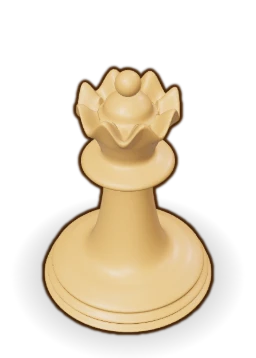
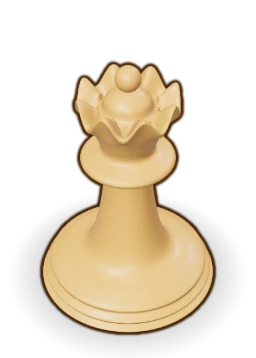
Release 1.63.4: Google sign-in pop-up fixed, Google button tile, Spuzdoku, slimmer pawn collar

Changed region(s): [[0.125, 0.1536, 0.875, 0.8911], [0.375, 0.3994, 0.4062, 0.4302]]

diff --git a/lib/catalog.ts b/lib/catalog.ts
@@ -67,7 +67,7 @@ export interface GameMeta {
   /** Retired (RETIRED_IDS): kept in code, hidden from players and refused by the server. Set by the catalog. */
   retired?: boolean;
   /**
-   * Another board size of the game named here (owner, 14 Nov 2026: Sixer and Nine are one game, Kente, 6 × 6 or
+   * Another board size of the game named here (owner, 14 Nov 2026: Sixer and Nine are one game, Spuzdoku, 6 × 6 or
    * 9 × 9). Playable, with its own levels and stats, but never listed or counted on its own: players reach it
    * from the size picker (components/play/SizePicker).
    */
@@ -169,11 +169,11 @@ const MAIN_GAMES: GameMeta[] = [
     "Suns and moons. Equal per row and column, never 3 in a line. = means same, × means different.",
     { unique: true, minTimeMs: 8000 },
   ),
-  // Kente (owner, 14 Nov 2026): Sixer and Nine are one game with two board sizes, picked before each game. The ids
+  // Spuzdoku (owner, 14 Nov 2026): Sixer and Nine are one game with two board sizes, picked before each game. The ids
   // stay, so levels, stats and saved games carry on; "nine" is the 9 × 9 size and is never listed on its own.
   g(
     "sixer",
-    "Kente",
+    "Spuzdoku",
     "logic",
     "grid-nine",
     "L",
@@ -184,7 +184,7 @@ const MAIN_GAMES: GameMeta[] = [
   ),
   g(
     "nine",
-    "Kente",
+    "Spuzdoku",
     "logic",
     "number-square-nine",
     "M3+",
@@ -859,7 +859,7 @@ export const WORLDS: World[] = ALL_WORLDS.filter((w) => GAMES.some((x) => x.worl
  * The catalogue count: every game that is not retired. Static text that cannot follow the runtime state (the PWA
  * manifest, the offline page) keeps it; anything rendered per request or revalidated counts `playerGames(s).length`.
  */
-/** Games players see (a board-size variant such as Kente 9 × 9 is not counted on its own). */
+/** Games players see (a board-size variant such as Spuzdoku 9 × 9 is not counted on its own). */
 export const GAME_COUNT = GAMES.filter((g) => !g.variantOf).length;
 export const WORLD_COUNT = WORLDS.length;
 

diff --git a/design/design_handoff_spuzl/design/spuzl3d.js b/design/design_handoff_spuzl/design/spuzl3d.js
@@ -63,9 +63,9 @@ function snap(C, size, alignBottom) {
 const base = (br) => [[0, 0], [br, 0], [br, .035], [br + .012, .06], [br - .02, .09], [br - .02, .12], [br - .09, .16]];
 const arc = (cy, r, a0, a1, n = 12) => Array.from({ length: n + 1 }, (_, i) => { const a = a0 + (a1 - a0) * i / n; return [Math.max(0, r * Math.cos(a)), cy + r * Math.sin(a)]; });
 const PROFILES = {
-  // Pawn: a wide base, a short thick neck, a broad collar and a big round head (owner, 14 Nov 2026: pawns read as
-  // bishops). Same height as before, so every other piece keeps its scale.
-  P: [...base(.41), [.25, .20], [.18, .29], [.155, .42], [.27, .465], [.28, .505], [.16, .54], ...arc(.70, .19, -1.0, Math.PI / 2)],
+  // Pawn: a wide base, a short thick neck, a slim collar and a big round head (owner, 14 Nov 2026: pawns read as
+  // bishops; a wide collar made the head look flat). Same height as before, so every other piece keeps its scale.
+  P: [...base(.41), [.25, .20], [.18, .29], [.15, .42], [.215, .46], [.22, .495], [.14, .525], ...arc(.69, .18, -1.05, Math.PI / 2)],
   R: [...base(.42), [.27, .22], [.23, .36], [.22, .62], [.30, .66], [.30, .70], [.27, .72], [.29, .78], [.295, .84], [.27, .855], [.2, .85], [.19, .80], [0, .79]],
   N: [...base(.42), [.26, .22], [.28, .26], [0, .27]],
   B: [...base(.40), [.20, .22], [.14, .40], [.12, .60], [.21, .64], [.21, .68], [.11, .71], [.15, .76], [.18, .84], [.18, .92], [.15, 1.0], [.10, 1.06], [.05, 1.10], [.03, 1.11], ...arc(1.15, .05, -1.17, Math.PI / 2, 6)],

diff --git a/components/auth/GoogleButton.tsx b/components/auth/GoogleButton.tsx
@@ -126,7 +126,7 @@ export function GoogleButton({ next, link = false }: { next: string; link?: bool
           shape: "rectangular",
           text: "continue_with",
           logo_alignment: "center",
-          width: Math.min(400, Math.max(200, Math.round(slot.current.getBoundingClientRect().width))),
+          width: Math.min(400, Math.max(200, Math.round(slot.current.getBoundingClientRect().width) - 16)),
         });
         setGis("ready");
       } catch {
@@ -162,7 +162,10 @@ export function GoogleButton({ next, link = false }: { next: string; link?: bool
         <div
           ref={slot}
           aria-busy={gis === "loading" || busy}
-          className={`flex h-14 w-full items-center justify-center ${busy ? "pointer-events-none opacity-70" : ""}`}
+          // Google's button lives in its own frame: `color-scheme: light` stops the browser painting that frame white on
+          // a dark page, and the 56 px tile around it matches the buttons beside it (Google caps its own at 44 px).
+          className={`flex h-14 w-full items-center justify-center overflow-hidden rounded-[16px] border ${busy ? "pointer-events-none opacity-70" : ""}`}
+          style={{ colorScheme: "light", background: "var(--google-bg)", borderColor: "var(--google-line)" }}
         />
       )}
       {gis === "off" && (

diff --git a/lib/catalog.test.ts b/lib/catalog.test.ts
@@ -121,7 +121,7 @@ describe("Graduate: the twelve lab games are live (11 Nov 2026)", () => {
 });
 
 describe("catalog: retired games", () => {
-  it("keeps the owner-picked and graduated games live, less the owner's cuts of 14 Nov 2026: 32 (Kente's 9 × 9 is not counted on its own)", () => {
+  it("keeps the owner-picked and graduated games live, less the owner's cuts of 14 Nov 2026: 32 (Spuzdoku's 9 × 9 is not counted on its own)", () => {
     expect(GAMES.map((g) => g.id).sort()).toEqual([...LIVE].sort());
     expect(GAME_COUNT).toBe(32);
     expect(GAMES.every((g) => !g.retired && !g.lab)).toBe(true);
@@ -192,7 +192,7 @@ describe("catalog: four groups", () => {
 
   it("puts every live game in exactly one group", () => {
     const seen = WORLDS.flatMap((w) => gamesInWorld(w.id).map((g) => g.id));
-    expect(seen).toHaveLength(GAME_COUNT + 1); // gamesInWorld keeps Kente's 9 × 9 (admin and static paths)
+    expect(seen).toHaveLength(GAME_COUNT + 1); // gamesInWorld keeps Spuzdoku's 9 × 9 (admin and static paths)
     expect(new Set(seen).size).toBe(GAME_COUNT + 1);
     expect([...seen].sort()).toEqual(GAMES.map((g) => g.id).sort());
     for (const g of GAMES) expect(isLiveWorld(g.world), g.id).toBe(true);

diff --git a/tests/e2e/spuzdoku-size.spec.ts b/tests/e2e/spuzdoku-size.spec.ts
@@ -1,0 +1,20 @@
+import { expect, test } from "@playwright/test";
+import { onboardGuest } from "./harness";
+
+/** Spuzdoku (owner, 14 Nov 2026): Sixer and Nine are one game; free play asks for the board size first. */
+test("Spuzdoku asks 6 × 6 or 9 × 9, then plays that size", async ({ page }) => {
+  await onboardGuest(page);
+  await page.goto("/play/sixer?mode=free");
+  await expect(page.getByRole("heading", { name: "Spuzdoku: pick a board" })).toBeVisible({ timeout: 20_000 });
+  await page.screenshot({ path: `${process.env.SHOTS ?? "test-results"}/kente-picker.png` });
+  await page.getByRole("button", { name: /9\s×\s9/ }).click();
+  await page.waitForURL(/\/play\/nine\?.*size=1/);
+  await expect(page.locator("[data-shell]")).toBeVisible({ timeout: 30_000 });
+  await expect(page.getByRole("heading", { name: "Spuzdoku", level: 1 })).toBeVisible();
+});
+
+test("the Library lists Spuzdoku once", async ({ page }) => {
+  await onboardGuest(page);
+  await page.goto("/library");
+  await expect(page.getByRole("link", { name: /^Spuzdoku/ })).toHaveCount(1);
+});

diff --git a/components/play/PlayScreen.tsx b/components/play/PlayScreen.tsx
@@ -220,7 +220,7 @@ export function PlayScreen({
     initialMode === "five" ? fiveSlot?.state === "in_progress" : today.data?.games.find((g) => g.id === meta.id)?.state === "in_progress";
   // First try of a game: a short guided practice round before the real one (skippable).
   const [guided, setGuided] = useState(false);
-  // Kente (owner, 14 Nov 2026): a game with two board sizes asks which one first, unless the address already says
+  // Spuzdoku (owner, 14 Nov 2026): a game with two board sizes asks which one first, unless the address already says
   // (?size=1, set by the picker) or the game came from somewhere that fixed it (a Daily, Daily Five, a past Daily).
   const [askSize, setAskSize] = useState(() => !!SIZES[meta.id] && (initialMode === "free" || initialMode === "level") && !sized);
   // New-device speed (owner, 12 Nov): a game this browser hasn't learned starts loading its practice board now,

diff --git a/lib/copy/seo.ts b/lib/copy/seo.ts
@@ -199,7 +199,7 @@ export const siteFaq = (games: number = GAME_COUNT, worlds: number = WORLD_COUNT
 export const FEATURES: readonly string[] = [
   "Free play: every game any time, with fresh puzzles and levels that get harder.",
   "Arcade: Gotcha, a trap platformer where every room tricks you once; Dash, an endless runner where you jump and duck; plus Echo, Flinch and Twins.",
-  "Kente: number grids at 6 by 6 or 9 by 9, picked before each game.",
+  "Spuzdoku: number grids at 6 by 6 or 9 by 9, picked before each game.",
   "Daily Five: five quick games a day, the same for everyone, with a shareable score grid.",
   "Streaks with Streak Freezes, quests, badges and levels.",
   "Duel: a live best-of-three race against a friend or a matched player.",

diff --git a/next.config.ts b/next.config.ts
@@ -6,7 +6,9 @@ const securityHeaders = [
   { key: "Referrer-Policy", value: "strict-origin-when-cross-origin" },
   { key: "Permissions-Policy", value: "camera=(), microphone=(), geolocation=(), interest-cohort=()" },
   { key: "Strict-Transport-Security", value: "max-age=63072000; includeSubDomains; preload" },
-  { key: "Cross-Origin-Opener-Policy", value: "same-origin" },
+  // Google's sign-in button opens a pop-up that must report back to this page; plain same-origin cut it off (the pop-up
+  // stayed blank on accounts.google.com/gsi/transform). Pop-ups we open keep their link; other sites still can't.
+  { key: "Cross-Origin-Opener-Policy", value: "same-origin-allow-popups" },
 ];
 
 const nextConfig: NextConfig = {

diff --git a/lib/share/text.test.ts b/lib/share/text.test.ts
@@ -76,7 +76,7 @@ describe("share text", () => {
 
   it("matches the design's Duel format", () => {
     const t = duelShareText({ gameId: "sixer", me: "Ama", them: "Tunde", rounds: ["won", "lost", "won"], rating: 1438 });
-    expect(t).toBe(["SPUZL Duel · Kente", "Ama 2 - 1 Tunde", "🟩🟥🟩 · rating 1,438", SHARE_DOMAIN].join("\n"));
+    expect(t).toBe(["SPUZL Duel · Spuzdoku", "Ama 2 - 1 Tunde", "🟩🟥🟩 · rating 1,438", SHARE_DOMAIN].join("\n"));
     expect(duelShareText({ gameId: "?", me: "A", them: "B", rounds: ["won"] }).split("\n")[2]).toBe("🟩");
   });
 

diff --git a/tests/api/retired.test.ts b/tests/api/retired.test.ts
@@ -71,7 +71,7 @@ describe("api: retired games are refused like unknown ones", () => {
 
   it("serves only live games to players", async () => {
     const today = await fetch(`${BASE}/api/v1/today`).then((r) => r.json());
-    // A board-size variant (Kente 9 × 9) is played from its game, never listed on its own.
+    // A board-size variant (Spuzdoku 9 × 9) is played from its game, never listed on its own.
     expect(today.games.map((x: { id: string }) => x.id).sort()).toEqual(
       GAMES.filter((x) => !x.variantOf)
         .map((x) => x.id)

diff --git a/lib/admin/metrics-r2-admin.test.ts b/lib/admin/metrics-r2-admin.test.ts
@@ -96,7 +96,7 @@ describe("practice rounds (20261202000501)", () => {
   it("breaks down by game, busiest first, with the game's name", () => {
     expect(METRIC_BY_ID.practice.breakdown!.rows(total)).toEqual([
       { key: "dusk", label: "Dusk", values: [7, 5, 1, 1, 71.4] },
-      { key: "nine", label: "Kente", values: [3, 1, 2, 0, 33.3] },
+      { key: "nine", label: "Spuzdoku", values: [3, 1, 2, 0, 33.3] },
     ]);
   });
   it("exports per day and game, then the range total", () => {

diff --git a/components/play/SizePicker.tsx b/components/play/SizePicker.tsx
@@ -4,7 +4,7 @@ import { motion, useReducedMotion } from "motion/react";
 import { Icon } from "@/components/ui/Icon";
 import { sizeCopy as T } from "@/lib/copy/size";
 
-/** Board sizes of a game that has more than one (Kente: Sixer 6 × 6 and Nine 9 × 9). */
+/** Board sizes of a game that has more than one (Spuzdoku: Sixer 6 × 6 and Nine 9 × 9). */
 export const SIZES: Record<string, { id: string; n: number }[]> = {
   sixer: [
     { id: "sixer", n: 6 },
